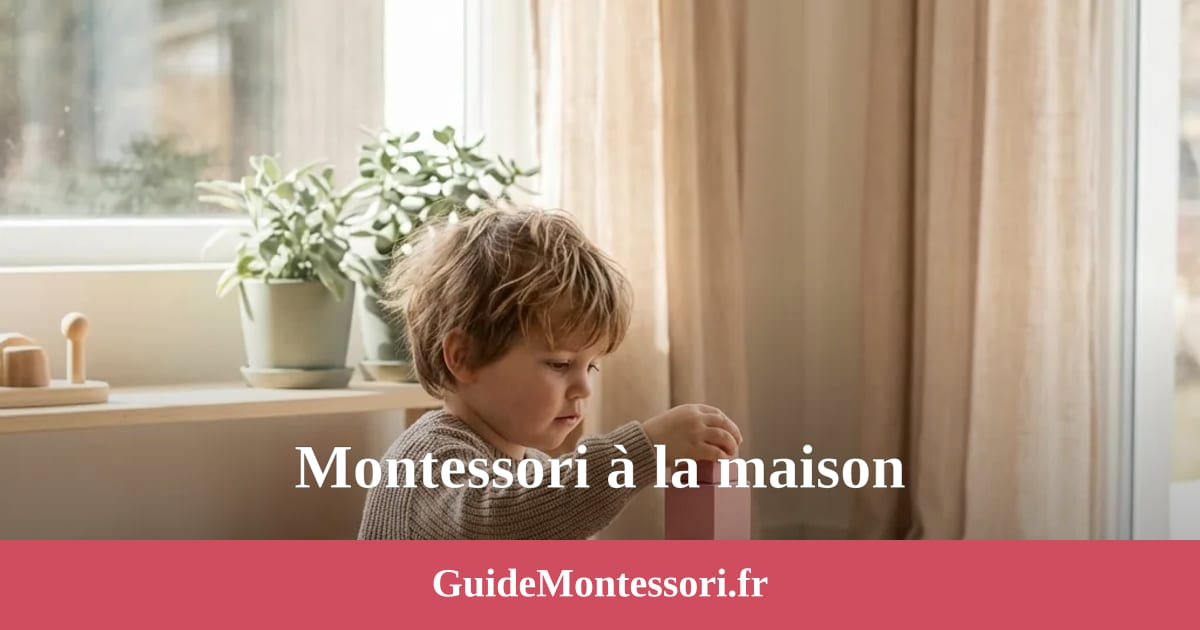
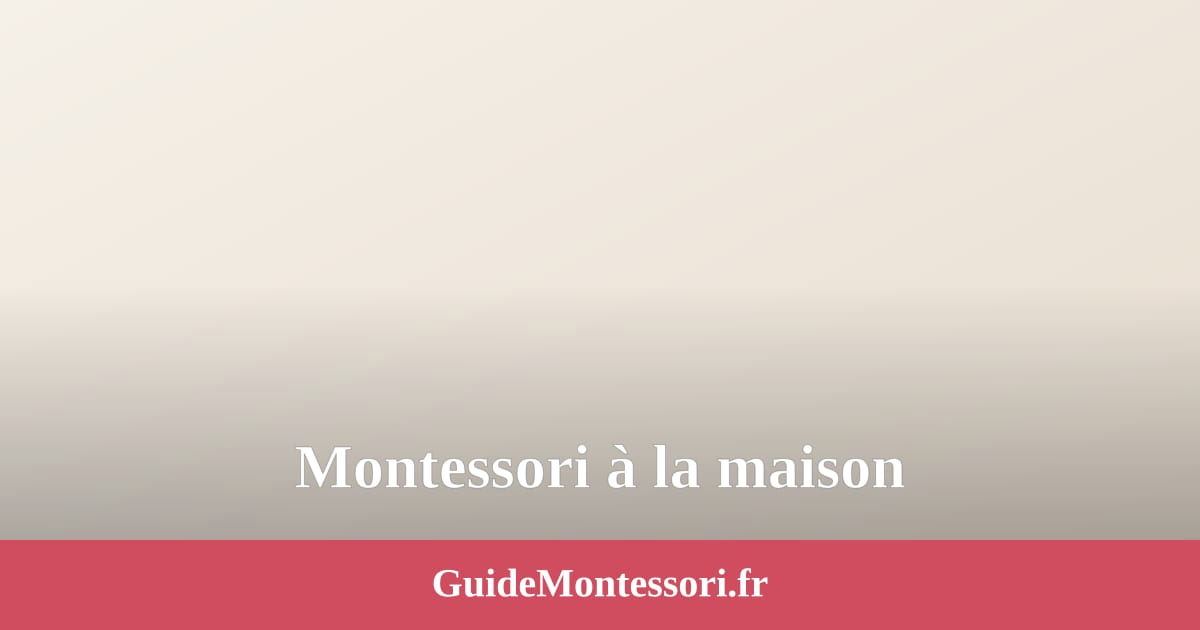
Cartes OG : casser le cache CDN qui figeait d'anciennes cartes
Les cartes /og/* étaient servies avec `Cache-Control: immutable, max-age=1 an` :
quand une carte était régénérée (photo ajoutée), CDN et navigateurs
continuaient d'afficher l'ancienne carte de marque (dégradé + emoji + titre),
donnant l'impression que les articles n'avaient pas de vraie image.

- src/lib/og.ts : ogCardVersion() ajoute ?v=<hash du contenu> aux cartes OG ;
  l'URL ne change que si le fichier change. Appliqué à ogImagePath()
  (og:image + hero d'article) et à ogCardVersion() dans ArticleCard
  et sur l'accueil (3 listes).
- public/_headers : /og/* passe de `immutable, max-age=1 an` à
  `max-age=3600, stale-while-revalidate=86400` (ce sont des dérivés
  régénérés, pas des assets immuables).
- scripts/generate_og.mjs : option --og-only pour ne régénérer que les
  cartes sans recréer les déclinaisons WebP.

diff --git a/src/lib/og.ts b/src/lib/og.ts
@@ -1,14 +1,40 @@
 import fs from 'node:fs';
+import crypto from 'node:crypto';
+
+const versions = new Map<string, string>();
+
+/**
+ * Anti-cache pour les cartes OG : `/og/articles/x.jpg` -> `/og/articles/x.jpg?v=<hash>`.
+ *
+ * Les cartes sont régénérées (photo ajoutée/corrigée) mais leur URL ne change
+ * jamais : sans ce suffixe, CDN et navigateurs continuent de servir l'ancienne
+ * version (l'ancienne directive `immutable` les figeait pour un an).
+ * Le suffixe est le hash du contenu : il ne change que si l'image change.
+ */
+export function ogCardVersion(publicPath: string): string {
+  const cached = versions.get(publicPath);
+  if (cached) return cached;
+  try {
+    const hash = crypto.createHash('md5').update(fs.readFileSync(`public${publicPath}`)).digest('hex').slice(0, 8);
+    const url = `${publicPath}?v=${hash}`;
+    versions.set(publicPath, url);
+    versions.set(url, url);
+    return url;
+  } catch {
+    return publicPath;
+  }
+}
 
 /**
  * Chemin public de la carte Open Graph 1200x630 d'une route, si elle a été
  * générée par `scripts/generate_og.mjs`. Retourne `undefined` sinon.
  *
- * `/articles/barres-rouges/` -> `/og/articles/barres-rouges.jpg`
- * `/`                        -> `/og/default.jpg`
+ * `/articles/barres-rouges/` -> `/og/articles/barres-rouges.jpg?v=...`
+ * `/`                        -> `/og/default.jpg?v=...`
  */
 export function ogImagePath(pathname: string): string | undefined {
   const clean = pathname.replace(/\/+$/, '');
   const candidates = clean ? [`/og${clean}.jpg`, '/og/default.jpg'] : ['/og/default.jpg'];
-  return candidates.find((p) => fs.existsSync(`public${p}`));
+  const found = candidates.find((p) => fs.existsSync(`public${p}`));
+  return found ? ogCardVersion(found) : undefined;
 }
